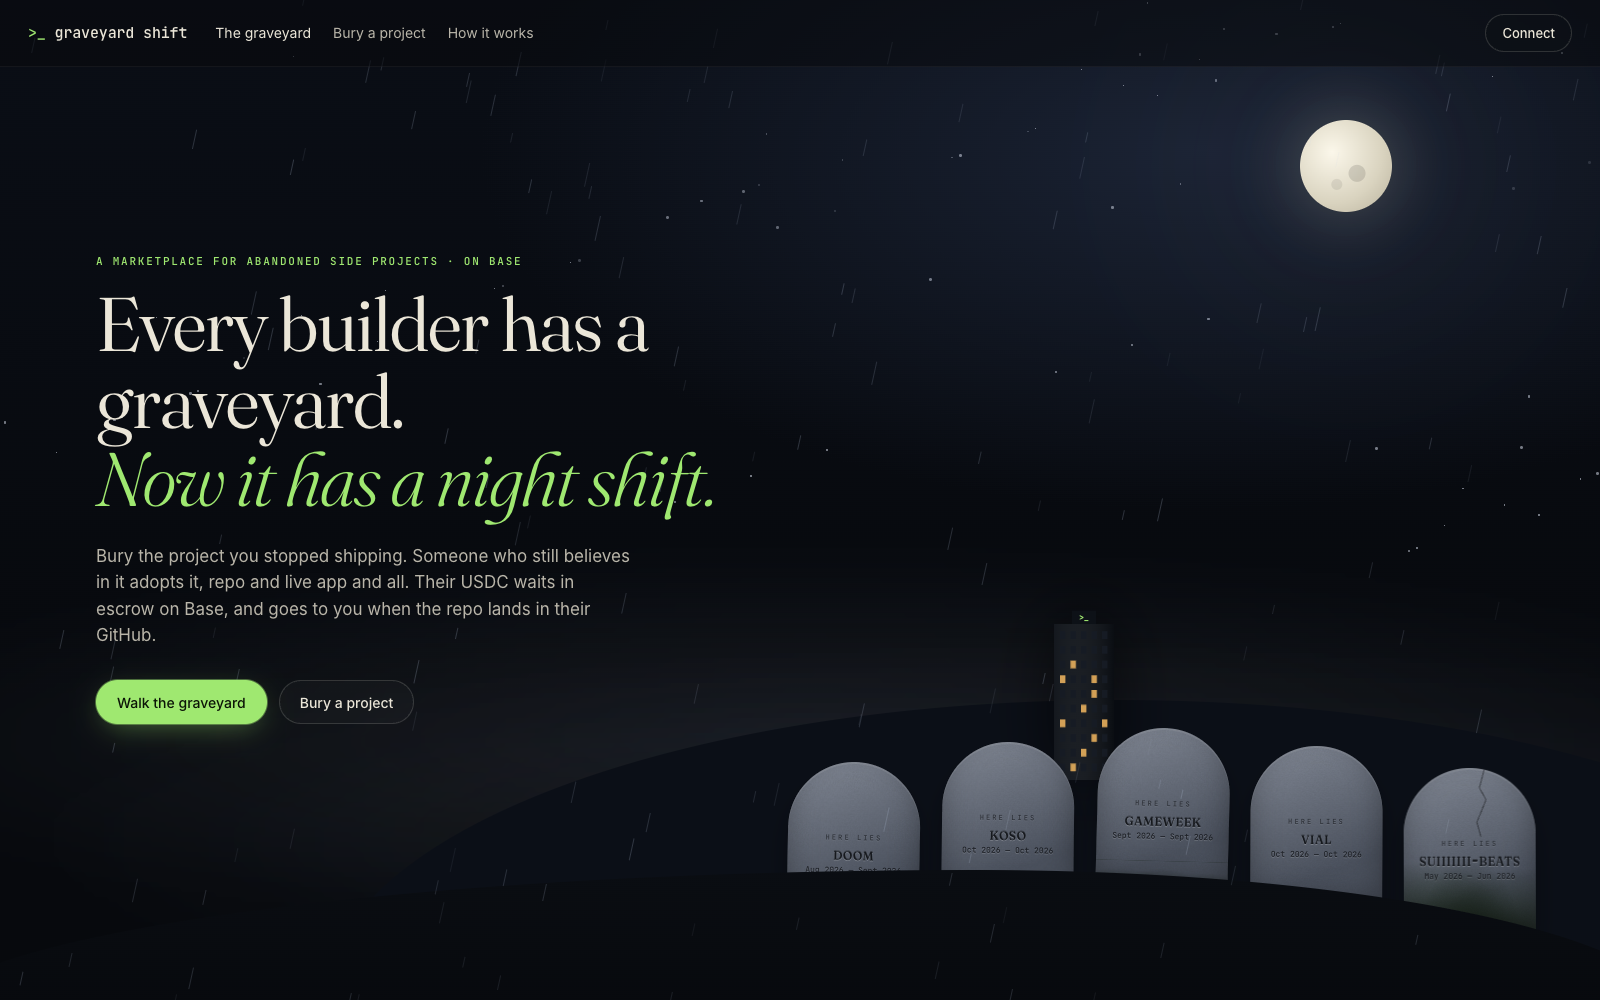
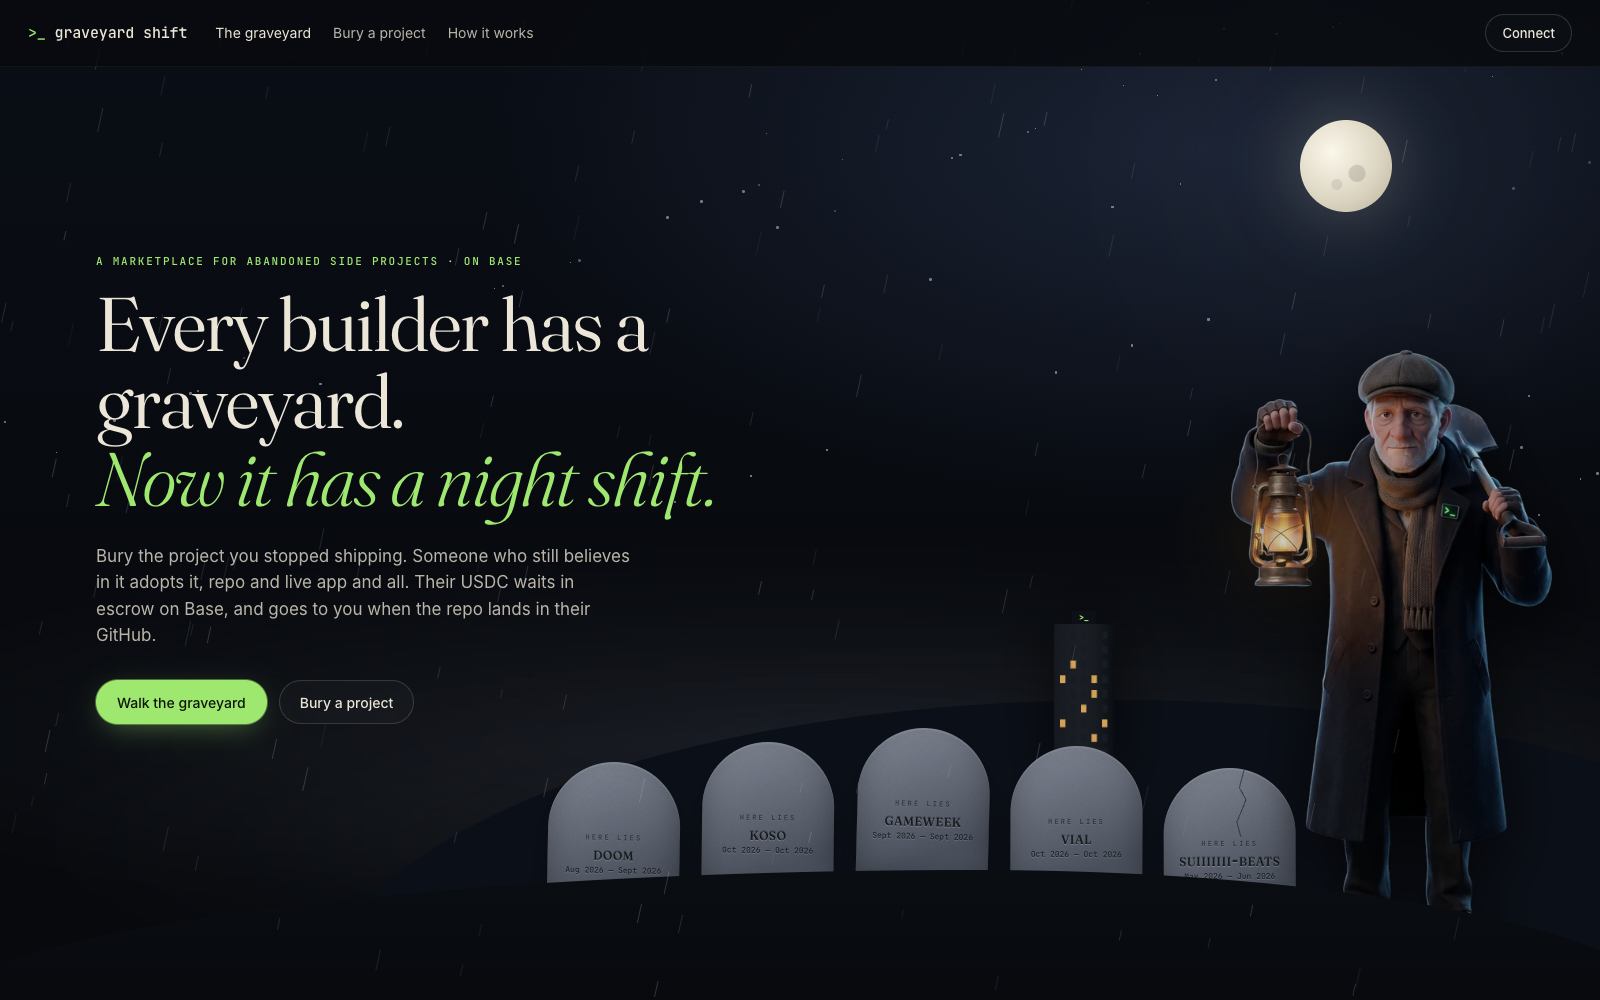
Submission text and hero screenshot

Changed region(s): [[0.3438, 0.682, 0.9688, 0.93], [0.75, 0.341, 0.9688, 0.682]]

diff --git a/submission/SUBMISSION.md b/submission/SUBMISSION.md
@@ -1,0 +1,29 @@
+# Vibeathon 02 · Night Shift: submission fields
+
+Form: https://app.vibestarter.xyz/vibeathon/submit (closes 9 Nov 2026, 22:00 UTC)
+
+**Project name**
+Graveyard Shift
+
+**Tagline**
+Adopt abandoned side projects. USDC waits in escrow on Base until the repo lands in your GitHub.
+
+**Live app URL**
+https://graveyard.nerom.site
+
+**What does it do, and what should judges try?**
+Every builder has a graveyard of side projects they stopped shipping. Graveyard Shift is a marketplace for them. A builder buries a project, Claude writes an honest autopsy of the repo, and someone who still believes in it adopts it. Their USDC sits in an escrow contract on Base and is released to the seller when the repo is transferred to the buyer's GitHub account. A keeper checks GitHub every 75 seconds and settles on its own.
+
+Try this:
+1. Walk the graveyard. Every headstone is drawn from data. Moss grows with the days since the last commit. Stones crack and lean after 90 days. The glow is the coroner's vitality score. The tower has one lit window per buried project, and the watchman's lantern flares while a handover is in escrow.
+2. Open a plot to read the coroner's report: cause of death, findings, salvageable assets, a three-step revival plan, who should adopt it, and a fair price band.
+3. Bury any public GitHub repo. Claude reads it and writes the autopsy live in about 10 seconds. Listing takes a gasless wallet signature.
+4. Adopt one. Connect a Base Account (passkey only, no extension needed), take 1,000 test USDC plus gas from the built-in faucet, and lock the price on Base Sepolia. Approve and adopt go through as one atomic batch. Either side can refund, and the deal settles itself once GitHub shows the transfer.
+
+**Built with**
+Claude Code built all of it from one conversation: Solidity escrow plus 11 Foundry tests, the Node server (keeper, verifier, faucet), and the React UI, plus the deploys. Claude Opus 5.5 runs inside the product as the coroner, with structured outputs. The rest of the stack is Base Sepolia, Base Account (EIP-5792 batched calls), wagmi/viem, Railway and Vercel.
+
+**Screenshot**: submission/hero.png (1600×1000)
+**Repo**: https://github.com/neromtoobad/graveyard-shift (once pushed)
+**X handle**: @neromtoobad
+**Tools**: Claude Code, Claude
